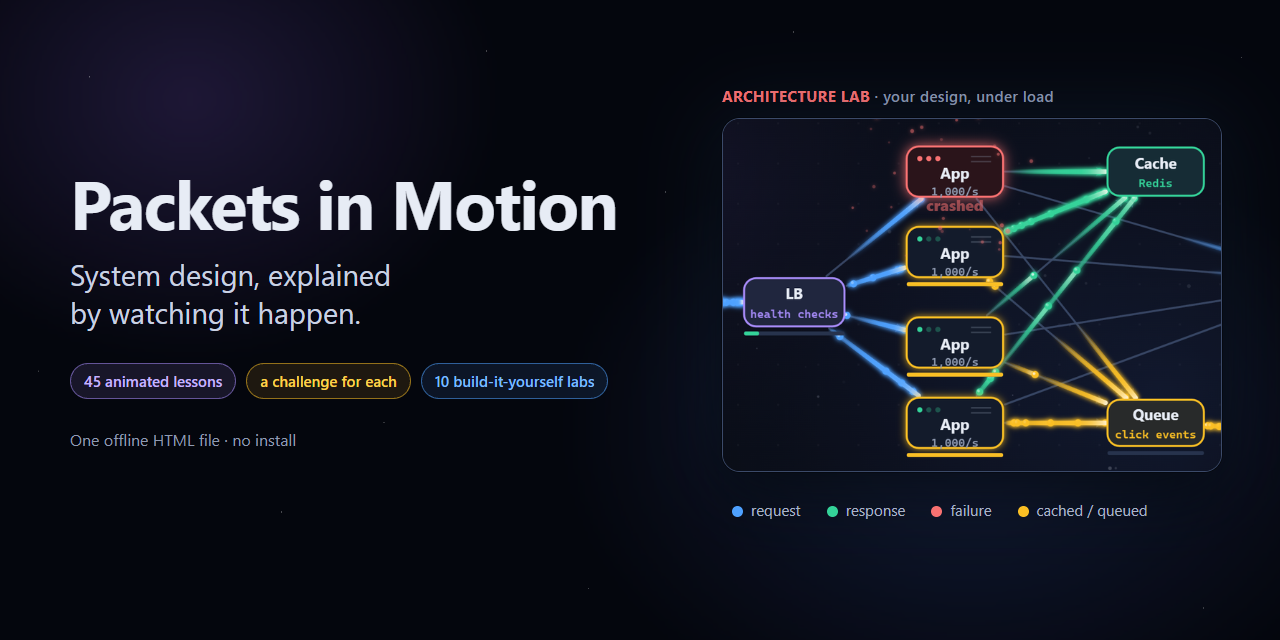
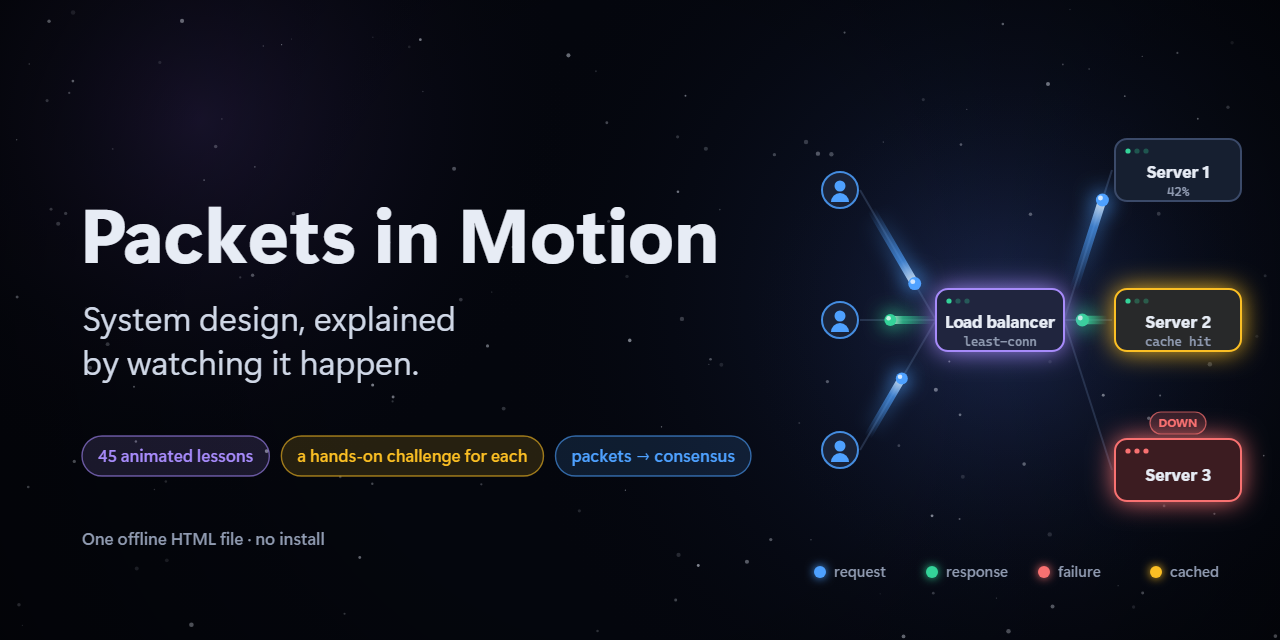
Bring back the original social preview, with the lesson count updated
The original preview (users sending requests through a load balancer
to three servers, one of them down) returns as the README hero and
social image; its only change is '45 animated lessons' instead of 32.
It was re-rendered from its original canvas source, which now lives in
assets/social-preview.html, and differs from the old image only in
those two digits. The image alt texts and BRAND.md describe it again.
The lab screenshot stays in the Architecture labs section.

diff --git a/assets/social-preview.html b/assets/social-preview.html
@@ -1,48 +1,53 @@
 <!doctype html>
 <html><head><meta charset="utf-8">
-<!-- Source of social-preview.png (1280 × 640). See BRAND.md for how to re-render it. -->
-<style>
-  *{box-sizing:border-box;margin:0;padding:0}
-  html,body{width:1280px;height:640px;overflow:hidden}
-  body{background:#04060d;font-family:ui-sans-serif,system-ui,"Segoe UI",Roboto,Helvetica,Arial,sans-serif;color:#e7ecf5;position:relative}
-  .fog{position:absolute;border-radius:50%;filter:blur(10px)}
-  .stars{position:absolute;inset:0;background-image:
-    radial-gradient(1.4px 1.4px at 7% 12%,#ffffff55 50%,transparent 51%),radial-gradient(1.2px 1.2px at 22% 80%,#ffffff44 50%,transparent 51%),
-    radial-gradient(1.6px 1.6px at 38% 8%,#ffffff40 50%,transparent 51%),radial-gradient(1.2px 1.2px at 46% 92%,#ffffff40 50%,transparent 51%),
-    radial-gradient(1.4px 1.4px at 3% 58%,#ffffff35 50%,transparent 51%),radial-gradient(1.2px 1.2px at 30% 66%,#ffffff30 50%,transparent 51%),
-    radial-gradient(1.5px 1.5px at 52% 30%,#ffffff40 50%,transparent 51%),radial-gradient(1.2px 1.2px at 62% 5%,#ffffff40 50%,transparent 51%),
-    radial-gradient(1.4px 1.4px at 97% 9%,#ffffff40 50%,transparent 51%),radial-gradient(1.2px 1.2px at 94% 95%,#ffffff35 50%,transparent 51%),
-    radial-gradient(1.3px 1.3px at 16% 35%,#ffffff30 50%,transparent 51%),radial-gradient(1.3px 1.3px at 50% 55%,#ffffff2a 50%,transparent 51%)}
-  .left{position:absolute;left:70px;top:168px;width:640px}
-  h1{font-size:68px;font-weight:700;letter-spacing:-1.5px;line-height:1;white-space:nowrap}
-  .sub{margin-top:20px;font-size:29px;line-height:1.3;color:#c9d2e3;font-weight:400}
-  .pills{display:flex;flex-wrap:nowrap;gap:10px;margin-top:32px}
-  .pill{font-size:15px;font-weight:600;padding:7px 13px;border-radius:999px;border:1.5px solid}
-  .v{color:#c4b5fd;border-color:#a78bfa88;background:#a78bfa1f}
-  .a{color:#fcd34d;border-color:#fbbf2488;background:#fbbf241a}
-  .b{color:#7cbcff;border-color:#4ea1ff88;background:#4ea1ff1a}
-  .foot{margin-top:30px;font-size:16px;color:#8f9ab0}
-  .shot{position:absolute;left:722px;top:118px;width:500px;border-radius:18px;overflow:hidden;border:1px solid #3b4a69;
-    box-shadow:0 0 0 1px #00000060,0 24px 70px #000000aa,0 0 80px #4ea1ff22}
-  /* a crop of lab-screenshot.png: the load balancer, the app servers (one crashed), the cache and the queue */
-  .shot{height:354px}
-  .shot img{display:block;width:1004px;margin:-68px 0 0 -250px}
-  .tag{position:absolute;left:722px;top:86px;font-size:15px;font-weight:700;letter-spacing:.4px;color:#f87171;font-family:ui-sans-serif,system-ui,"Segoe UI",sans-serif}
-  .tag span{color:#8f9ab0;font-weight:600}
-  .legend{position:absolute;left:732px;top:500px;display:flex;gap:26px;font-size:15px;color:#a9b3c7}
-  .legend i{display:inline-block;width:11px;height:11px;border-radius:50%;margin-right:8px;vertical-align:-1px}
-</style></head>
-<body>
-  <div class="fog" style="left:-120px;top:-160px;width:620px;height:520px;background:radial-gradient(closest-side,rgba(90,64,150,.30),transparent)"></div>
-  <div class="fog" style="left:560px;top:120px;width:820px;height:620px;background:radial-gradient(closest-side,rgba(44,66,130,.34),transparent)"></div>
-  <div class="stars"></div>
-  <div class="left">
-    <h1>Packets in Motion</h1>
-    <p class="sub">System design, explained<br>by watching it happen.</p>
-    <div class="pills"><span class="pill v">45 animated lessons</span><span class="pill a">a challenge for each</span><span class="pill b">10 build-it-yourself labs</span></div>
-    <p class="foot">One offline HTML file · no install</p>
-  </div>
-  <div class="tag">ARCHITECTURE LAB <span>· your design, under load</span></div>
-  <div class="shot"><img src="lab-screenshot.png" alt=""></div>
-  <div class="legend"><span><i style="background:#4ea1ff"></i>request</span><span><i style="background:#34d399"></i>response</span><span><i style="background:#f87171"></i>failure</span><span><i style="background:#fbbf24"></i>cached / queued</span></div>
-</body></html>
+<!-- Source of social-preview.png (1280 × 640), drawn on a canvas in the course's own style. See BRAND.md to re-render it. --><title>Social Preview</title>
+<style>html,body{margin:0;background:#04060d}canvas{display:block}</style></head>
+<body><canvas id="c" width="1280" height="640"></canvas>
+<script>
+const cv=document.getElementById('c'),g=cv.getContext('2d'),W=1280,H=640;
+const C={bg:'#04060d',panel:'#131b2b',panel2:'#1a2338',edge:'#3b4a69',line:'#27334d',text:'#e7ecf5',dim:'#8f9ab0',accent:'#a78bfa',blue:'#4ea1ff',green:'#34d399',red:'#f87171',amber:'#fbbf24'};
+const SANS='"Segoe UI Variable Display","Segoe UI",system-ui,sans-serif',MONO='"Cascadia Mono",Consolas,monospace';
+const rnd=i=>{const s=Math.sin(i*127.1+311.7)*43758.5453;return s-Math.floor(s);};
+const hexA=(h,a)=>{const n=parseInt(h.slice(1),16);return `rgba(${n>>16},${n>>8&255},${n&255},${a})`;};
+function rr(x,y,w,h,r){g.beginPath();g.moveTo(x+r,y);g.arcTo(x+w,y,x+w,y+h,r);g.arcTo(x+w,y+h,x,y+h,r);g.arcTo(x,y+h,x,y,r);g.arcTo(x,y,x+w,y,r);g.closePath();}
+function tx(s,x,y,{z=16,c=C.text,wt=500,al='left',f=SANS}={}){g.font=`${wt} ${z}px ${f}`;g.fillStyle=c;g.textAlign=al;g.textBaseline='middle';g.fillText(s,x,y);}
+// void
+g.fillStyle=C.bg;g.fillRect(0,0,W,H);
+const fog=(x,y,r,c)=>{const gr=g.createRadialGradient(x,y,0,x,y,r);gr.addColorStop(0,c);gr.addColorStop(1,'rgba(4,6,13,0)');g.fillStyle=gr;g.fillRect(0,0,W,H);};
+fog(1010,300,520,'rgba(44,66,130,.42)');fog(200,120,380,'rgba(90,64,150,.26)');fog(1010,330,300,'rgba(40,56,110,.35)');
+for(let i=0;i<150;i++){const x=rnd(i+1)*W,y=rnd(i+201)*H,r=.5+rnd(i+401)*1.8;g.fillStyle=`rgba(236,242,255,${.1+rnd(i+801)*.45})`;g.beginPath();g.arc(x,y,r,0,7);g.fill();}
+const v=g.createRadialGradient(W/2,H/2,H*.45,W/2,H/2,W*.75);v.addColorStop(0,'rgba(0,0,0,0)');v.addColorStop(1,'rgba(0,0,0,.6)');g.fillStyle=v;g.fillRect(0,0,W,H);
+// diagram
+const U=[[840,190],[840,320],[840,450]],LB=[1000,320],S=[[1178,170],[1178,320],[1178,470]];
+const link=(a,b)=>{g.strokeStyle=hexA(C.edge,.55);g.lineWidth=2;g.beginPath();g.moveTo(a[0],a[1]);g.lineTo(b[0],b[1]);g.stroke();};
+U.forEach(u=>link([u[0]+20,u[1]],[LB[0]-64,LB[1]]));S.forEach(s=>link([LB[0]+64,LB[1]],[s[0]-66,s[1]]));
+function streak(a,b,p0,p1,c,r){const x0=a[0]+(b[0]-a[0])*p0,y0=a[1]+(b[1]-a[1])*p0,x1=a[0]+(b[0]-a[0])*p1,y1=a[1]+(b[1]-a[1])*p1;
+  const gr=g.createLinearGradient(x0,y0,x1,y1);gr.addColorStop(0,hexA(c,0));gr.addColorStop(.7,hexA(c,.65));gr.addColorStop(1,'rgba(255,250,240,.95)');
+  g.save();g.lineCap='round';g.lineWidth=r*1.3;g.strokeStyle=gr;g.shadowColor=c;g.shadowBlur=r*3;g.beginPath();g.moveTo(x0,y0);g.lineTo(x1,y1);g.stroke();g.restore();
+  g.save();g.shadowColor=c;g.shadowBlur=r*3.4;g.fillStyle=c;g.beginPath();g.arc(x1,y1,r,0,7);g.fill();g.restore();g.fillStyle='rgba(255,255,255,.75)';g.beginPath();g.arc(x1-r*.3,y1-r*.3,r*.38,0,7);g.fill();}
+function box(x,y,w,h,label,sub,c,st){g.save();if(st){g.shadowColor=c;g.shadowBlur=26;}rr(x-w/2,y-h/2,w,h,12);g.fillStyle=st==='fail'?'#2a141a':C.panel;g.fill();g.restore();
+  rr(x-w/2,y-h/2,w,h,12);g.fillStyle=hexA(c,.09);g.fill();g.strokeStyle=c;g.lineWidth=2;g.stroke();
+  for(let i=0;i<3;i++){g.beginPath();g.arc(x-w/2+13+i*9,y-h/2+12,2.6,0,7);g.fillStyle=st==='fail'?C.red:i?hexA(C.green,.3):C.green;g.fill();}
+  tx(label,x,y+(sub?3:6),{z:17,wt:650,al:'center'});if(sub)tx(sub,x,y+22,{z:12.5,c:C.dim,al:'center',f:MONO});}
+function user(x,y){g.beginPath();g.arc(x,y,18,0,7);g.fillStyle=C.panel2;g.fill();g.strokeStyle=hexA(C.blue,.85);g.lineWidth=2;g.stroke();g.fillStyle=C.blue;g.beginPath();g.arc(x,y-4,5.5,0,7);g.fill();g.beginPath();g.arc(x,y+12,9,Math.PI,0);g.fill();}
+streak([U[0][0]+20,U[0][1]],[LB[0]-64,LB[1]],.15,.72,C.blue,6.5);
+streak([U[2][0]+20,U[2][1]],[LB[0]-64,LB[1]],.1,.55,C.blue,6);
+streak([LB[0]+64,LB[1]],[S[0][0]-66,S[0][1]],.2,.8,C.blue,6.5);
+streak([S[1][0]-66,S[1][1]],[LB[0]+64,LB[1]],.1,.62,C.green,6.5);
+streak([LB[0]-64,LB[1]],[U[1][0]+20,U[1][1]],.05,.6,C.green,6);
+U.forEach(u=>user(u[0],u[1]));
+box(LB[0],LB[1],128,62,'Load balancer','least-conn',C.accent,'glow');
+box(S[0][0],S[0][1],126,62,'Server 1','42%',C.edge);
+box(S[1][0],S[1][1],126,62,'Server 2','cache hit',C.amber,'glow');
+box(S[2][0],S[2][1],126,62,'Server 3','',C.red,'fail');
+rr(S[2][0]-28,S[2][1]-58,56,22,11);g.fillStyle=hexA(C.red,.18);g.fill();g.strokeStyle=hexA(C.red,.7);g.lineWidth=1.2;g.stroke();tx('DOWN',S[2][0],S[2][1]-46,{z:12,wt:700,c:C.red,al:'center'});
+// text
+tx('Packets in Motion',80,242,{z:76,wt:750});
+tx('System design, explained',82,322,{z:34,wt:400,c:'#cfd7e6'});
+tx('by watching it happen.',82,366,{z:34,wt:400,c:'#cfd7e6'});
+const chips=[['45 animated lessons',C.accent],['a hands-on challenge for each',C.amber],['packets → consensus',C.blue]];let cx=82;
+chips.forEach(([s,c])=>{g.font=`600 17px ${SANS}`;const w=g.measureText(s).width+32;rr(cx,436,w,40,20);g.fillStyle=hexA(c,.14);g.fill();g.strokeStyle=hexA(c,.6);g.lineWidth=1.4;g.stroke();tx(s,cx+16,457,{z:17,wt:600,c});cx+=w+12;});
+tx('One offline HTML file · no install',82,540,{z:17,c:C.dim});
+[[C.blue,'request'],[C.green,'response'],[C.red,'failure'],[C.amber,'cached']].forEach(([c,s],k)=>{const x=820+k*112;g.save();g.shadowColor=c;g.shadowBlur=10;g.fillStyle=c;g.beginPath();g.arc(x,572,6,0,7);g.fill();g.restore();tx(s,x+14,573,{z:15,c:C.dim});});
+document.title='ready';
+</script></body></html>

diff --git a/index.html b/index.html
@@ -14,12 +14,12 @@
 <meta property="og:image" content="https://sumnoon.github.io/Packets-in-Motion/assets/social-preview.png">
 <meta property="og:image:width" content="1280">
 <meta property="og:image:height" content="640">
-<meta property="og:image:alt" content="Packets in Motion: system design, explained by watching it happen. An architecture lab under load: a load balancer spreads requests over four app servers, one of them crashed, which feed a cache and a click queue.">
+<meta property="og:image:alt" content="Packets in Motion: system design, explained by watching it happen. Requests flow from three users through a load balancer to three servers, one of them down.">
 <meta name="twitter:card" content="summary_large_image">
 <meta name="twitter:title" content="Packets in Motion · System design, explained by watching it happen">
 <meta name="twitter:description" content="An animated, interactive system design course: a hands-on challenge for every lesson and ten labs where you build the system and load-test it.">
 <meta name="twitter:image" content="https://sumnoon.github.io/Packets-in-Motion/assets/social-preview.png">
-<meta name="twitter:image:alt" content="Packets in Motion: system design, explained by watching it happen. An architecture lab under load: a load balancer spreads requests over four app servers, one of them crashed, which feed a cache and a click queue.">
+<meta name="twitter:image:alt" content="Packets in Motion: system design, explained by watching it happen. Requests flow from three users through a load balancer to three servers, one of them down.">
[1 lines of base64/hex data omitted]
 <style>
 :root{--bg:#0a0e16;--side:#0c111b;--panel:#121a29;--line:#222d44;--text:#e7ecf5;--text-2:#d0d8e6;--dim:#8b96ab;--faint:#5d6880;--strong:#fff;--accent:#a78bfa;--accent-hover:#b9a3ff;--on-accent:#0a0e16;--blue:#4ea1ff;--green:#34d399;--red:#f87171;--amber:#fbbf24;--hover-bg:#172136;--hover-line:#3a4866;--star-off:#2a3450;--stage:#04060d;color-scheme:dark}

diff --git a/src/page.html b/src/page.html
@@ -14,12 +14,12 @@
 <meta property="og:image" content="https://sumnoon.github.io/Packets-in-Motion/assets/social-preview.png">
 <meta property="og:image:width" content="1280">
 <meta property="og:image:height" content="640">
-<meta property="og:image:alt" content="Packets in Motion: system design, explained by watching it happen. An architecture lab under load: a load balancer spreads requests over four app servers, one of them crashed, which feed a cache and a click queue.">
+<meta property="og:image:alt" content="Packets in Motion: system design, explained by watching it happen. Requests flow from three users through a load balancer to three servers, one of them down.">
 <meta name="twitter:card" content="summary_large_image">
 <meta name="twitter:title" content="Packets in Motion · System design, explained by watching it happen">
 <meta name="twitter:description" content="An animated, interactive system design course: a hands-on challenge for every lesson and ten labs where you build the system and load-test it.">
 <meta name="twitter:image" content="https://sumnoon.github.io/Packets-in-Motion/assets/social-preview.png">
-<meta name="twitter:image:alt" content="Packets in Motion: system design, explained by watching it happen. An architecture lab under load: a load balancer spreads requests over four app servers, one of them crashed, which feed a cache and a click queue.">
+<meta name="twitter:image:alt" content="Packets in Motion: system design, explained by watching it happen. Requests flow from three users through a load balancer to three servers, one of them down.">
 <link rel="icon" type="image/png" sizes="32x32" href="<!-- datauri: assets/favicon-32.png -->">
 <style>
 <!-- include: styles.css -->

diff --git a/assets/BRAND.md b/assets/BRAND.md
@@ -12,7 +12,7 @@ The mark combines the project's initial **P** with a routing path. Two rounded p
 | `favicon-32.png` | 32 × 32 | Browser tab icon |
 | `social-preview.png` | 1280 × 640 | Repository social preview (Settings → General → Social preview), README hero and the page's `og:image` |
 | `social-preview.html` | 1280 × 640 | Source of `social-preview.png` |
-| `lab-screenshot.png` | 1400 × 783 | README image of an architecture lab; the social preview crops it |
+| `lab-screenshot.png` | 1400 × 783 | README image of an architecture lab |
 
 Every logo file keeps its transparency. The visible mark fills about two thirds of the square canvas (roughly 18% padding left, 16% right, 9% top, 7% bottom). Keep the square aspect ratio and that padding. Use on the course's navy background (`#0a0e16`) or a plain light background; avoid placing it over busy imagery. Pair the mark with live text, **Packets in Motion**, rather than baking lettering into the image.
 
@@ -22,7 +22,13 @@ Every logo file keeps its transparency. The visible mark fills about two thirds 
 
 `lab-screenshot.png` is a real frame of the URL shortener lab, 9.6 s into a load test, just after an app server crashed. It was captured from the built `index.html` in headless Chrome at 2× and downscaled to 1400 px wide. The design was loaded from a share link, and the run was started with the Run load test button, so no keyboard shortcut letters show.
 
-`social-preview.html` lays out the preview: the title, the tagline, three pills, and a crop of `lab-screenshot.png`. To refresh it (for example when the lesson count changes), edit the HTML, open it in Chrome at exactly 1280 × 640 and save a screenshot as `social-preview.png`. Then upload it again under the repository's Settings → General → Social preview. The page's `og:image` points at the deployed copy, so it updates on the next deploy.
+`social-preview.html` draws the preview on a canvas with the course's colours: the title, the tagline, three pills, and users sending requests through a load balancer to three servers, one of them down. To refresh it (for example when the lesson count changes, which is the pill text `'45 animated lessons'`), edit the HTML and take a 1280 × 640 headless screenshot from the `assets` folder:
+
+```bash
+msedge --headless=new --disable-gpu --hide-scrollbars --force-device-scale-factor=1 --virtual-time-budget=3000 --window-size=1280,640 --screenshot=social-preview.png social-preview.html
+```
+
+Chrome takes the same flags. Then upload it again under the repository's Settings → General → Social preview. The page's `og:image` points at the deployed copy, so it updates on the next deploy.
 
 ## Creation
 

diff --git a/README.md b/README.md
@@ -8,7 +8,7 @@
 
 An animated, interactive course that takes you from "how do two computers talk?" to consensus, distributed transactions and three full system designs: a URL shortener, a chat app and a news feed. Every concept is taught through motion: glowing requests leave light trails between servers, caches fill up, servers fail and traffic reroutes. Then you solve a hands-on challenge for each lesson, and in ten **architecture labs** you build the system yourself, wire it up and watch it survive (or not) a crash, a spike or an attack.
 
-![Packets in Motion: system design, explained by watching it happen. An architecture lab under load: a load balancer spreads requests over four app servers, one of them crashed, which feed a cache and a click queue.](assets/social-preview.png)
+![Packets in Motion: system design, explained by watching it happen. Requests flow from three users through a load balancer to three servers, one of them down.](assets/social-preview.png)
 
 ## Run it
 
